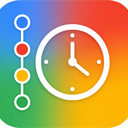
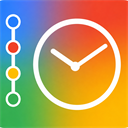
fix: 修复 Gemini f.req 时间锚点注入并更新扩展图标
Gemini batchexecute 使用 urlencoded 的 f.req 多层 JSON 嵌套，旧拦截逻辑无法命中 prompt 叶子节点。

diff --git a/inject.js b/inject.js
@@ -99,9 +99,40 @@
     return prefix + "\n" + text;
   }
 
+  /**
+   * 仅当字符串看起来像被 JSON.stringify 过的容器/字符串时才尝试解析，
+   * 避免对普通文本做无谓的 JSON.parse。返回解析结果或 undefined。
+   */
+  function tryParseJson(str) {
+    if (typeof str !== "string") return undefined;
+    const trimmed = str.trim();
+    if (trimmed.length < 2) return undefined;
+    const first = trimmed[0];
+    if (first !== "[" && first !== "{" && first !== '"') return undefined;
+    try {
+      return JSON.parse(str);
+    } catch {
+      return undefined;
+    }
+  }
+
+  /**
+   * 深度遍历：Gemini 的 prompt 被 JSON.stringify 包裹多层（f.req 内层、batchexecute 信封等），
+   * 普通遍历到第一层字符串就停了。这里在「叶子未命中」时再尝试把字符串当作内嵌 JSON 解析并递归，
+   * 命中后逐层重新 stringify 回去，从而钻到真正的 prompt 叶子。
+   */
   function walkJson(value, state, seen) {
     if (value === null || value === undefined || state.done) return value;
-    if (typeof value === "string") return prependToPrompt(value, state);
+    if (typeof value === "string") {
+      const matched = prependToPrompt(value, state);
+      if (state.done) return matched;
+      const nested = tryParseJson(value);
+      if (nested !== null && typeof nested === "object") {
+        const augmented = walkJson(nested, state, seen);
+        if (state.done) return JSON.stringify(augmented);
+      }
+      return value;
+    }
     if (typeof value !== "object") return value;
     if (seen.has(value)) return value;
     seen.add(value);
@@ -121,18 +152,50 @@
     return value;
   }
 
+  /** 把一段「JSON 或被编码为 JSON 的字符串」做时间注入；命中返回新串，否则原样返回。 */
+  function augmentJsonLike(str) {
+    if (typeof str !== "string" || !str.length) return str;
+    const state = { done: false };
+    const parsed = tryParseJson(str);
+    if (parsed !== null && typeof parsed === "object") {
+      const augmented = walkJson(parsed, state, new WeakSet());
+      return state.done ? JSON.stringify(augmented) : str;
+    }
+    const next = prependToPrompt(str, state);
+    return state.done ? next : str;
+  }
+
+  /**
+   * Gemini 走 batchexecute / StreamGenerate，body 为 `f.req=<urlencoded JSON>&at=<token>`。
+   * 仅解析并改写 f.req 字段，其余字段（尤其 at CSRF token）保持字节不变，最大限度降低风险。
+   */
+  function augmentFormUrlEncoded(bodyStr) {
+    const parts = bodyStr.split("&");
+    for (let i = 0; i < parts.length; i++) {
+      const eq = parts[i].indexOf("=");
+      if (eq < 0) continue;
+      if (parts[i].slice(0, eq) !== "f.req") continue;
+      const rawVal = parts[i].slice(eq + 1);
+      let decoded;
+      try {
+        decoded = decodeURIComponent(rawVal.replace(/\+/g, " "));
+      } catch {
+        return bodyStr;
+      }
+      const augmented = augmentJsonLike(decoded);
+      if (augmented === decoded) return bodyStr;
+      parts[i] = "f.req=" + encodeURIComponent(augmented);
+      return parts.join("&");
+    }
+    return bodyStr;
+  }
+
   function augmentBodyString(bodyStr) {
     if (bodyStr == null || bodyStr === "") return bodyStr;
-
-    const state = { done: false };
-    try {
-      const parsed = JSON.parse(bodyStr);
-      walkJson(parsed, state, new WeakSet());
-      return state.done ? JSON.stringify(parsed) : bodyStr;
-    } catch {
-      const nextText = prependToPrompt(bodyStr, state);
-      return state.done ? nextText : bodyStr;
+    if (/(^|&)f\.req=/.test(bodyStr)) {
+      return augmentFormUrlEncoded(bodyStr);
     }
+    return augmentJsonLike(bodyStr);
   }
 
   function augmentBody(body) {
@@ -140,13 +203,17 @@
     if (typeof body === "string") return augmentBodyString(body);
     if (body instanceof URLSearchParams) {
       const next = new URLSearchParams(body.toString());
-      let replaced = false;
+      if (next.has("f.req")) {
+        const value = next.get("f.req");
+        const augmented = augmentJsonLike(value);
+        if (augmented !== value) next.set("f.req", augmented);
+        return next;
+      }
       for (const [key, value] of next.entries()) {
-        if (replaced) break;
-        const augmented = augmentBodyString(value);
+        const augmented = augmentJsonLike(value);
         if (augmented !== value) {
           next.set(key, augmented);
-          replaced = true;
+          break;
         }
       }
       return next;
